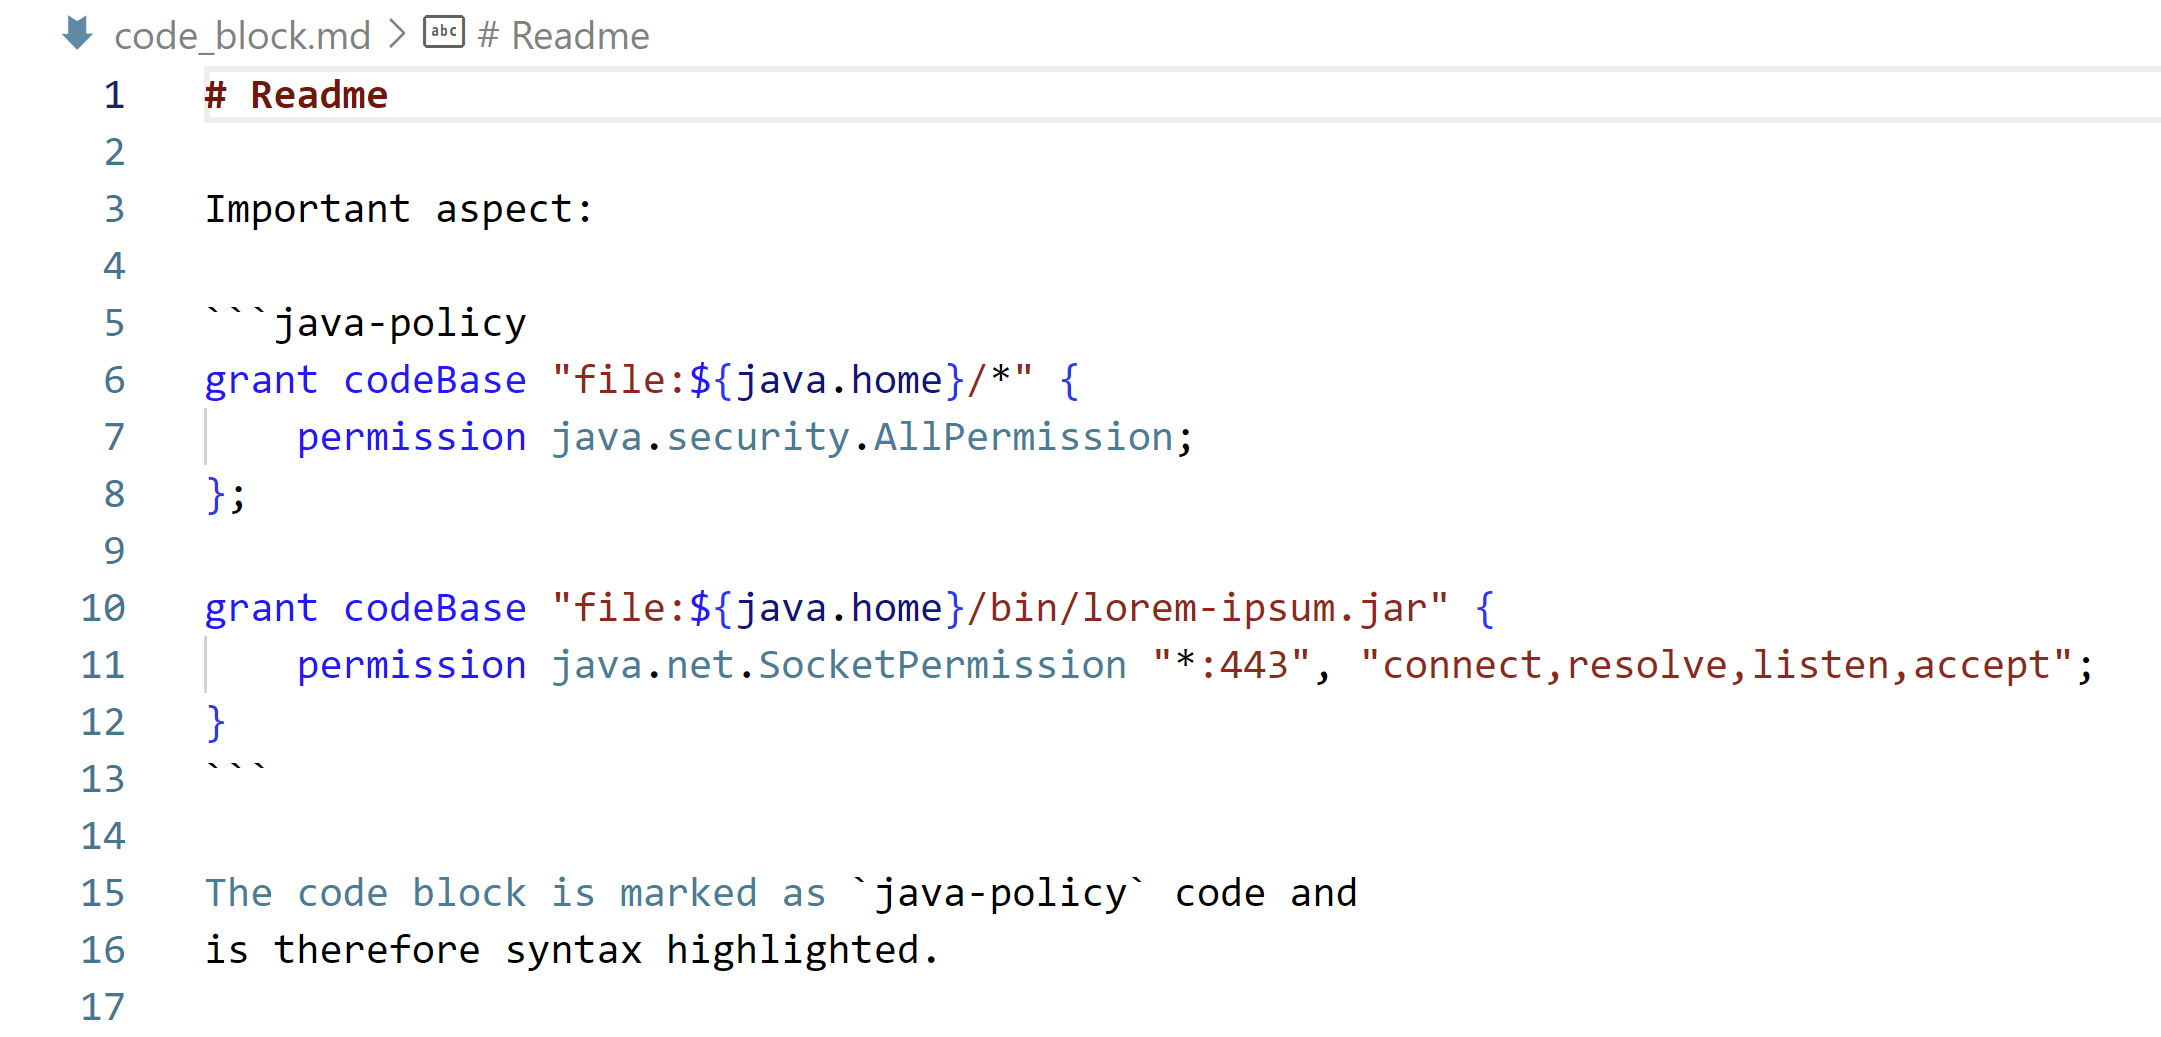
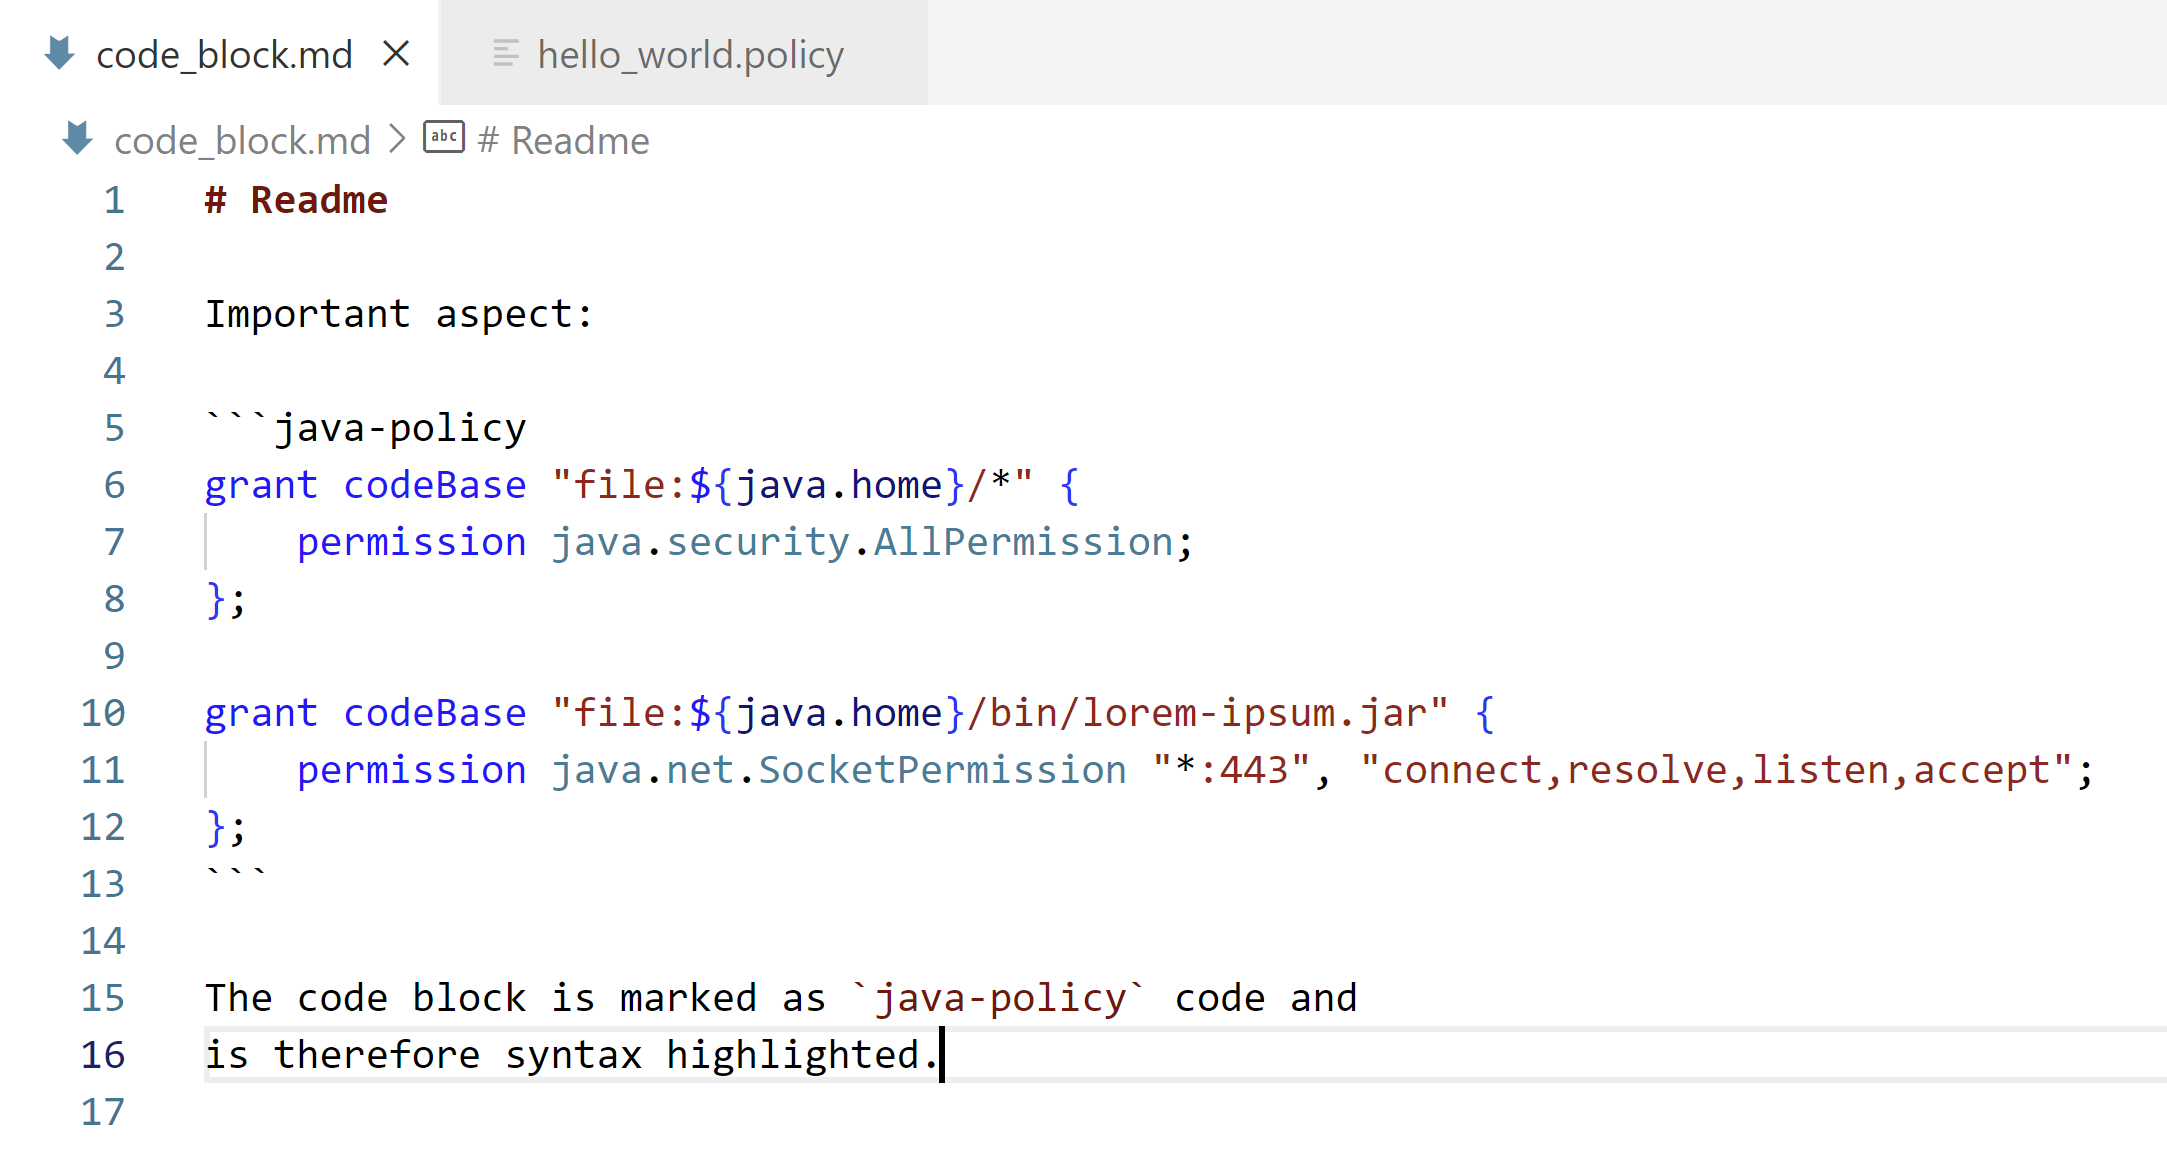
update markdown example

diff --git a/examples/code_block.md b/examples/code_block.md
@@ -6,4 +6,11 @@ Important aspect:
 grant codeBase "file:${java.home}/*" {
     permission java.security.AllPermission;
 };
+
+grant codeBase "file:${java.home}/bin/lorem-ipsum.jar" {
+    permission java.net.SocketPermission "*:443", "connect,resolve,listen,accept";
+};
 ```
+
+The code block is marked as java-policy code and
+is therefore syntax highlighted.
